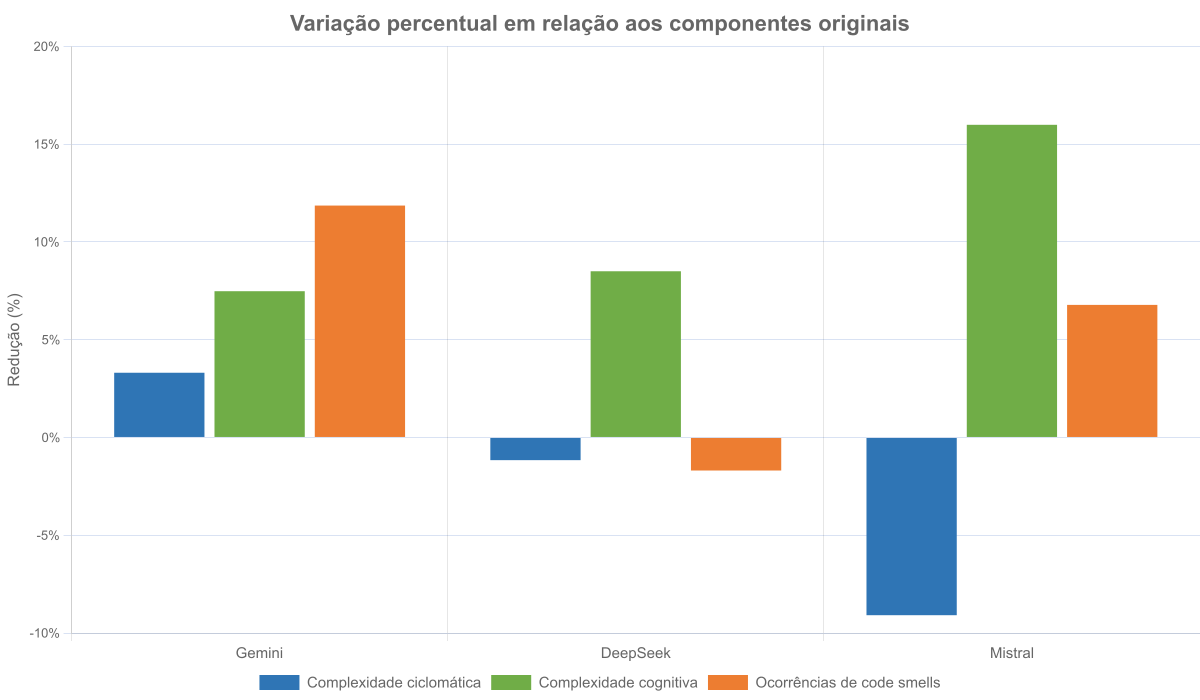
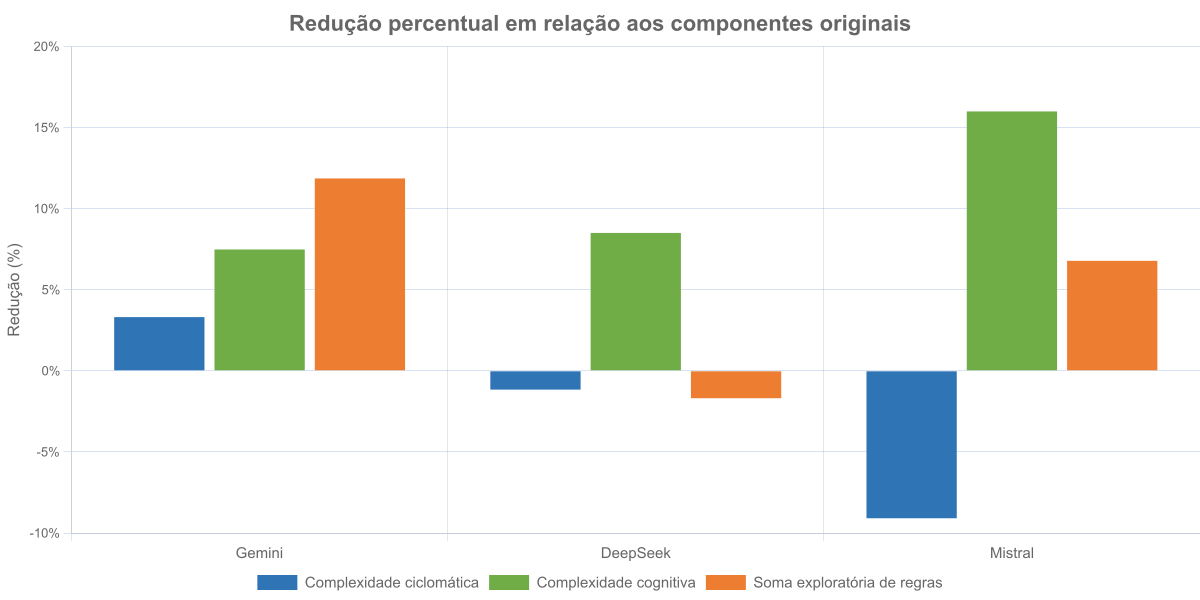
Fortalece análise de sensibilidade e resultados pareados

diff --git a/scripts/analisar_resultados.js b/scripts/analisar_resultados.js
@@ -1,0 +1,202 @@
+const fs = require('fs');
+const path = require('path');
+
+const baseDir = path.join(__dirname, '..');
+const resultsDir = path.join(baseDir, 'resultados');
+const metricsPath = path.join(resultsDir, 'metricas_por_arquivo.csv');
+const testsPath = path.join(resultsDir, 'Resultados_Testes_reexecucao.csv');
+
+function parseCsv(content) {
+  const rows = [];
+  let row = [];
+  let field = '';
+  let quoted = false;
+  for (let index = 0; index < content.length; index += 1) {
+    const char = content[index];
+    if (char === '"') {
+      if (quoted && content[index + 1] === '"') {
+        field += '"';
+        index += 1;
+      } else {
+        quoted = !quoted;
+      }
+    } else if (char === ',' && !quoted) {
+      row.push(field);
+      field = '';
+    } else if ((char === '\n' || char === '\r') && !quoted) {
+      if (char === '\r' && content[index + 1] === '\n') index += 1;
+      row.push(field);
+      if (row.some((value) => value !== '')) rows.push(row);
+      row = [];
+      field = '';
+    } else {
+      field += char;
+    }
+  }
+  if (field !== '' || row.length) {
+    row.push(field);
+    rows.push(row);
+  }
+  const [headers, ...data] = rows;
+  return data.map((values) => Object.fromEntries(headers.map((header, index) => [header, values[index] ?? ''])));
+}
+
+function csvEscape(value) {
+  const text = String(value ?? '');
+  return /[\n\r,"]/.test(text) ? `"${text.replace(/"/g, '""')}"` : text;
+}
+
+function writeCsv(fileName, rows) {
+  if (!rows.length) throw new Error(`Nenhuma linha produzida para ${fileName}`);
+  const headers = Object.keys(rows[0]);
+  const content = [
+    headers.join(','),
+    ...rows.map((row) => headers.map((header) => csvEscape(row[header])).join(',')),
+  ].join('\n');
+  fs.writeFileSync(path.join(resultsDir, fileName), `${content}\n`, 'utf8');
+}
+
+function round(value, digits = 2) {
+  const factor = 10 ** digits;
+  return Math.round((value + Number.EPSILON) * factor) / factor;
+}
+
+function mean(values) {
+  return values.length ? values.reduce((sum, value) => sum + value, 0) / values.length : 0;
+}
+
+function sum(values) {
+  return values.reduce((total, value) => total + value, 0);
+}
+
+function quantile(values, probability) {
+  if (!values.length) return 0;
+  const sorted = [...values].sort((left, right) => left - right);
+  const position = (sorted.length - 1) * probability;
+  const lower = Math.floor(position);
+  const upper = Math.ceil(position);
+  if (lower === upper) return sorted[lower];
+  return sorted[lower] + (position - lower) * (sorted[upper] - sorted[lower]);
+}
+
+function reduction(value, baseline) {
+  return baseline ? ((baseline - value) / baseline) * 100 : 0;
+}
+
+if (!fs.existsSync(metricsPath) || !fs.existsSync(testsPath)) {
+  throw new Error('Execute os testes e as métricas antes da análise de sensibilidade.');
+}
+
+const metrics = parseCsv(fs.readFileSync(metricsPath, 'utf8'));
+const tests = parseCsv(fs.readFileSync(testsPath, 'utf8'));
+const models = ['Original', 'Gemini', 'DeepSeek', 'Mistral'];
+const generatedModels = models.slice(1);
+const repositories = ['ReactAdmin', 'TakeNote'];
+const originalByFile = new Map(
+  metrics.filter((row) => row.Modelo === 'Original').map((row) => [row.Arquivo, row]),
+);
+const statusByOutput = new Map(tests.map((row) => [`${row.LLM}|${row.Arquivo}`, row.Status]));
+const number = (row, field) => Number(row[field]);
+
+const repositoryRows = [];
+for (const model of models) {
+  for (const repository of repositories) {
+    const rows = metrics.filter((row) => row.Modelo === model && row.Repositorio === repository);
+    const baselineRows = metrics.filter((row) => row.Modelo === 'Original' && row.Repositorio === repository);
+    const cc = mean(rows.map((row) => number(row, 'CC_Total')));
+    const baselineCc = mean(baselineRows.map((row) => number(row, 'CC_Total')));
+    const cognitive = mean(rows.map((row) => number(row, 'Cognitiva_Total')));
+    const baselineCognitive = mean(baselineRows.map((row) => number(row, 'Cognitiva_Total')));
+    const smells = sum(rows.map((row) => number(row, 'Code_Smells_Total')));
+    const baselineSmells = sum(baselineRows.map((row) => number(row, 'Code_Smells_Total')));
+    repositoryRows.push({
+      Modelo: model,
+      Repositorio: repository,
+      Arquivos: rows.length,
+      CC_Media_Arquivo: round(cc),
+      Reducao_CC_Pct: model === 'Original' ? 0 : round(reduction(cc, baselineCc)),
+      Cognitiva_Media_Arquivo: round(cognitive),
+      Reducao_Cognitiva_Pct: model === 'Original' ? 0 : round(reduction(cognitive, baselineCognitive)),
+      Soma_Exploratoria_Smells: smells,
+      Reducao_Soma_Smells_Pct: model === 'Original' ? 0 : round(reduction(smells, baselineSmells)),
+    });
+  }
+}
+
+const deltaRows = [];
+for (const model of generatedModels) {
+  for (const row of metrics.filter((item) => item.Modelo === model)) {
+    const baseline = originalByFile.get(row.Arquivo);
+    if (!baseline) throw new Error(`Original ausente para ${row.Arquivo}`);
+    const ccDelta = number(row, 'CC_Total') - number(baseline, 'CC_Total');
+    const cognitiveDelta = number(row, 'Cognitiva_Total') - number(baseline, 'Cognitiva_Total');
+    const smellsDelta = number(row, 'Code_Smells_Total') - number(baseline, 'Code_Smells_Total');
+    deltaRows.push({
+      Modelo: model,
+      Repositorio: row.Repositorio,
+      Arquivo: row.Arquivo,
+      Status_Teste: statusByOutput.get(`${model}|${row.Arquivo}`) || 'NAO_ENCONTRADO',
+      Delta_CC: ccDelta,
+      Reducao_CC_Pct: round(reduction(number(row, 'CC_Total'), number(baseline, 'CC_Total'))),
+      Delta_Cognitiva: cognitiveDelta,
+      Reducao_Cognitiva_Pct: round(
+        reduction(number(row, 'Cognitiva_Total'), number(baseline, 'Cognitiva_Total')),
+      ),
+      Delta_Soma_Smells: smellsDelta,
+    });
+  }
+}
+
+const distributionRows = generatedModels.map((model) => {
+  const deltas = deltaRows.filter((row) => row.Modelo === model).map((row) => row.Delta_CC);
+  return {
+    Modelo: model,
+    Arquivos: deltas.length,
+    CC_Melhorou: deltas.filter((value) => value < 0).length,
+    CC_Igual: deltas.filter((value) => value === 0).length,
+    CC_Piorou: deltas.filter((value) => value > 0).length,
+    Delta_CC_Q1: round(quantile(deltas, 0.25)),
+    Delta_CC_Mediana: round(quantile(deltas, 0.5)),
+    Delta_CC_Q3: round(quantile(deltas, 0.75)),
+    Delta_CC_IQR: round(quantile(deltas, 0.75) - quantile(deltas, 0.25)),
+  };
+});
+
+const sensitivityRows = [];
+for (const model of generatedModels) {
+  const modelRows = metrics.filter((row) => row.Modelo === model);
+  for (const scope of ['Todas', 'PASS']) {
+    const selected = scope === 'PASS'
+      ? modelRows.filter((row) => statusByOutput.get(`${model}|${row.Arquivo}`) === 'PASS')
+      : modelRows;
+    const baselines = selected.map((row) => originalByFile.get(row.Arquivo));
+    const cc = mean(selected.map((row) => number(row, 'CC_Total')));
+    const baselineCc = mean(baselines.map((row) => number(row, 'CC_Total')));
+    const cognitive = mean(selected.map((row) => number(row, 'Cognitiva_Total')));
+    const baselineCognitive = mean(baselines.map((row) => number(row, 'Cognitiva_Total')));
+    const smells = sum(selected.map((row) => number(row, 'Code_Smells_Total')));
+    const baselineSmells = sum(baselines.map((row) => number(row, 'Code_Smells_Total')));
+    sensitivityRows.push({
+      Modelo: model,
+      Escopo: scope,
+      Arquivos: selected.length,
+      CC_Baseline_Media: round(baselineCc),
+      CC_Media_Arquivo: round(cc),
+      Reducao_CC_Pct: round(reduction(cc, baselineCc)),
+      Cognitiva_Baseline_Media: round(baselineCognitive),
+      Cognitiva_Media_Arquivo: round(cognitive),
+      Reducao_Cognitiva_Pct: round(reduction(cognitive, baselineCognitive)),
+      Soma_Baseline_Smells: baselineSmells,
+      Soma_Exploratoria_Smells: smells,
+      Reducao_Soma_Smells_Pct: round(reduction(smells, baselineSmells)),
+    });
+  }
+}
+
+writeCsv('metricas_por_repositorio.csv', repositoryRows);
+writeCsv('metricas_deltas_por_arquivo.csv', deltaRows);
+writeCsv('metricas_distribuicao_cc.csv', distributionRows);
+writeCsv('metricas_sensibilidade.csv', sensitivityRows);
+
+console.table(distributionRows);
+console.table(sensitivityRows);

diff --git a/scripts/analisar_complexidade.js b/scripts/analisar_complexidade.js
@@ -250,6 +250,7 @@ fs.writeFileSync(
         cyclomatic: '1 por função mais if, laços, case, catch, ternário e operadores &&, || e ??',
         cognitive: 'incremento estrutural ponderado pelo nível de aninhamento; operadores lógicos acrescentam 1',
         duplication: 'percentual de tokens cobertos por sequências normalizadas repetidas de 20 tokens no mesmo arquivo',
+        interpretation: 'definições operacionais exploratórias; não equivalem a métricas de ferramenta comercial',
         smells: {
           longFunction: 'função com mais de 50 linhas',
           highCyclomatic: 'complexidade ciclomática maior que 10',
@@ -258,6 +259,8 @@ fs.writeFileSync(
           largeFile: 'arquivo com mais de 300 LOC',
           highDuplication: 'duplicação de tokens igual ou superior a 10%',
         },
+        smellThresholdStatus: 'limiares pré-especificados para esta análise, não pontos de corte validados para React',
+        smellAggregation: 'soma exploratória de eventos heterogêneos; não constitui escala direta de qualidade',
       },
     },
     null,

diff --git a/scripts/gerar_grafico.js b/scripts/gerar_grafico.js
@@ -21,7 +21,7 @@ if (!fs.existsSync(csvPath)) {
 
 const rows = parseCsv(fs.readFileSync(csvPath, 'utf8')).filter((row) => row.Modelo !== 'Original');
 const width = 1200;
-const height = 700;
+const height = 600;
 const chart = new ChartJSNodeCanvas({ width, height, backgroundColour: 'white' });
 
 const configuration = {
@@ -40,7 +40,7 @@ const configuration = {
         backgroundColor: '#70AD47',
       },
       {
-        label: 'Ocorrências de code smells',
+        label: 'Soma exploratória de regras',
         data: rows.map((row) => Number(row.Reducao_Smells_Pct)),
         backgroundColor: '#ED7D31',
       },
@@ -51,7 +51,7 @@ const configuration = {
     plugins: {
       title: {
         display: true,
-        text: 'Variação percentual em relação aos componentes originais',
+        text: 'Redução percentual em relação aos componentes originais',
         font: { size: 22 },
       },
       legend: { position: 'bottom', labels: { font: { size: 15 } } },

diff --git a/README.md b/README.md
@@ -1,8 +1,8 @@
-# Pacote de replicação — refatorações zero-shot de componentes React
+# Pacote de replicação — reescritas zero-shot de componentes React
 
-Este diretório acompanha o artigo **“Preservação de Testes em Refatorações Zero-Shot de Componentes React com LLMs: um Estudo Exploratório”**. Ele reúne as 20 unidades analisadas, as 60 saídas de LLM preservadas, os prompts documentados, os scripts corrigidos e os resultados da reexecução.
+Este diretório acompanha o artigo **“Aprovação de Suítes de Teste após Reescritas Zero-Shot de Componentes React por Interfaces de LLM: um Estudo Exploratório”**. Ele reúne as 20 unidades analisadas, as 60 saídas preservadas, os prompts documentados, os scripts corrigidos e os resultados da reexecução.
 
-O pacote permite auditar os dados e reproduzir os testes e as métricas no ambiente indicado. Ele não permite regenerar exatamente as saídas das LLMs: os artefatos originais não preservaram versão, data, parâmetros de amostragem ou identificador de execução dos modelos. Por esse motivo, os grupos são identificados somente pelos provedores **Gemini**, **DeepSeek** e **Mistral**.
+O pacote permite auditar os dados e reproduzir os testes e as métricas no ambiente indicado. Ele não permite regenerar exatamente as saídas das LLMs: os artefatos originais não preservaram versão, data, parâmetros de amostragem ou identificador de execução dos modelos. Por esse motivo, os grupos são identificados somente pelos rótulos verificáveis **Gemini**, **DeepSeek** e **Mistral**. Eles descrevem três conjuntos arquivados de saídas, não tratamentos completamente replicáveis nem famílias abstratas de modelos.
 
 ## Conteúdo
 
@@ -12,11 +12,12 @@ O pacote permite auditar os dados e reproduzir os testes e as métricas no ambie
 - `prompt_recomendado.txt`: versão mais restritiva proposta após a análise das ameaças à validade; **não foi usada para gerar os 60 arquivos existentes**.
 - `scripts/run_tests.js`: substitui uma unidade por vez no repositório correspondente, executa a suíte completa e restaura o arquivo original.
 - `scripts/analisar_complexidade.js`: calcula métricas estáticas com a API de compilador do TypeScript.
+- `scripts/analisar_resultados.js`: calcula resultados por repositório, deltas pareados, dispersão e a análise restrita a saídas aprovadas.
 - `scripts/gerar_grafico.js`: gera o gráfico de variação percentual a partir do resumo de métricas.
 - `scripts/gerar_manifesto.js`: calcula SHA-256 dos artefatos e resultados para verificação de integridade.
 - `resultados/`: CSVs, metadados, gráfico e logs da reexecução.
 
-Os arquivos legados `Resultados_Testes.csv`, `complexidade.csv` e `grafico_complexidade.png` foram preservados apenas para rastreabilidade. Os arquivos cujo nome contém `reexecucao`, `metricas_` ou `reducao_percentual` são os resultados usados na versão corrigida do artigo.
+Os arquivos antigos `Resultados_Testes.csv`, `complexidade.csv` e `grafico_complexidade.png` foram isolados em `resultados/legado/` e preservados apenas para rastreabilidade. Eles não sustentam a versão corrigida. Os resultados atuais são os arquivos cujo nome contém `reexecucao`, `metricas_` ou `reducao_percentual`.
 
 ## Proveniência dos projetos
 
@@ -37,7 +38,7 @@ git -C react-material-admin checkout dd136027c2253253cfb5b8a4cb698696fb63f8cd
 npm --prefix react-material-admin ci
 ```
 
-Requisitos usados na correção: Node.js 22, npm e Git. O `package-lock.json` deste pacote fixa as dependências analíticas; as dependências dos projetos são fixadas pelos respectivos arquivos de lock.
+Ambiente usado na correção: Windows 10.0.26300 x64, Node.js 22.20.0, npm 10.9.3 e Git. O `package-lock.json` deste pacote fixa as dependências analíticas; as dependências dos projetos são fixadas pelos respectivos arquivos de lock.
 
 ## Reexecução dos testes
 
@@ -84,7 +85,9 @@ As definições completas e os limiares estão em `resultados/metodologia_metric
 - duplicação: proporção aproximada de linhas em sequências normalizadas de 20 tokens repetidas no mesmo arquivo;
 - odores: função longa (>50 LOC), CC alta (>10), complexidade cognitiva alta (>15), aninhamento profundo (>3), arquivo grande (>300 LOC) e duplicação (>=10%).
 
-O analisador produz `metricas_por_arquivo.csv`, `metricas_resumo.csv` e `metodologia_metricas.json`. O gráfico usa a diferença percentual de cada grupo em relação às mesmas 20 unidades originais; valores negativos representam piora.
+O analisador produz `metricas_por_arquivo.csv`, `metricas_resumo.csv` e `metodologia_metricas.json`. A etapa de sensibilidade acrescenta `metricas_por_repositorio.csv`, `metricas_deltas_por_arquivo.csv`, `metricas_distribuicao_cc.csv` e `metricas_sensibilidade.csv`. No último arquivo, saídas com `FAIL` e seus originais correspondentes são excluídos em conjunto, preservando o pareamento. O gráfico usa a redução percentual de cada grupo em relação às mesmas 20 unidades originais; valores negativos representam aumento da métrica.
+
+As seis regras de odores são decisões operacionais exploratórias. Suas categorias devem ser interpretadas separadamente; a soma de ocorrências heterogêneas não constitui escala validada nem porcentagem direta de qualidade.
 
 ## Execução completa
 
